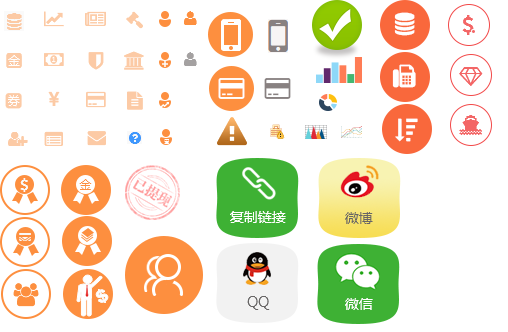
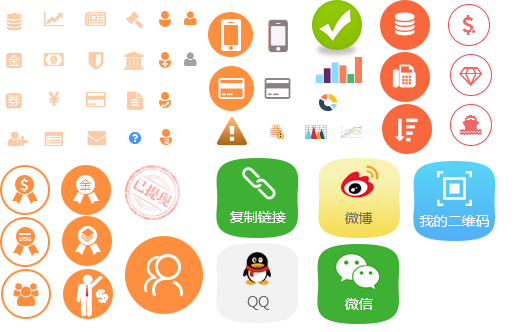
fix(invite-rebate.html):个人中心-我的邀请页面

diff --git a/app/views/user-center/invite-rebate.html b/app/views/user-center/invite-rebate.html
@@ -1,5 +1,5 @@
 <!--邀请返利-->
-<div class="right-area col-md-8 col-lg-9">
+<div class="right-area col-md-8 col-lg-9 invite-rebate">
   <div class="currency-style">
     <div class="title">
       <span class="tip">邀请中心</span>
@@ -32,21 +32,48 @@
             <p>以下方式分享邀请链接给好友>&nbsp;好友点击链接注册并投资>&nbsp;奖励自动进入您的账户</p>
             <div class="row text-center">
               <div class="col-xs-3">
-                <span class="invite-wechat display-inbl" data-toggle="modal" data-target="#myModal" ng-click="modalFlag=true"></span>
+                <span class="invite-wechat display-inbl" data-toggle="modal" data-target="#myModal" ng-click="weimodalFlag = true;qrmodalFlag = false;modalFlag =false"></span>
               </div>
-              <div class="col-xs-3" ng-click="shareWeibo()">
+              <!-- <div class="col-xs-3" ng-click="shareWeibo()">
                 <span class="invite-sina display-inbl"></span>
-              </div>
+              </div> -->
               <div class="col-xs-3" ng-click="shareQQ()">
                 <span class="invite-qq display-inbl"></span>
               </div>
               <div class="col-xs-3">
-                <span class="invite-copy display-inbl" data-toggle="modal" data-target="#myModal" ng-click="modalFlag=false"></span>
+                <span class="invite-qrcode display-inbl" data-toggle="modal" data-target="#myModal" ng-click="qrmodalFlag = true;weimodalFlag = false;modalFlag =false"></span>
+              </div>
+              <div class="col-xs-3">
+                <span class="invite-copy display-inbl" data-toggle="modal" data-target="#myModal" ng-click="modalFlag = true;qrmodalFlag = false;weimodalFlag =false"></span>
               </div>
             </div>
           </div>
         </div>
       </div>
+      <!-- 邀请好友赚奖金 -->
+      <div class="col-md-12">
+        <div class="invite-line ft-14 margin-b-10">
+          <p class="ftw-b ft-red6 margin-b-0 margin-l-30">邀好友赚奖金：2016年10月8日—2016年10月31日</p>
+        </div>
+      </div>
+      <div class="col-md-12 invite-main ft-grey666 margin-b-10">
+        <p class="intro ft-14 margin-b-0">活动期间内邀请好友注册投资，该好友在活动期间累计投资两次（期限≥30天），累计投资金额达2500元（含）以上，邀请人即可获得邀请奖金60元！多邀多得，上不封顶！</p>
+        <div class="text-center margin-t-20 margin-b-20">
+          <img src="/images/user-center/group.png" alt="">
+          <div class="row ft-12 line-h24 row-img margin-auto text-left">
+            <div class="col-md-5">分享专属二维码/复制链接给好友</div>
+            <div class="col-md-4 margin-l--26">好友通过链接注册并购买</div>
+            <div class="col-md-3 margin-l-20">您将获得60元奖金</div>
+          </div>
+        </div>
+        <div class="text-left ft-14 rules line-h24">
+          <div class="header ft-white text-center">活动规则：</div>
+          <p class="margin-b-0">1、邀请关系认定：好友注册时填写邀请人手机号或通过邀请人的专属链接（或二维码）注册；</p>
+          <p class="margin-b-0">2、邀请奖金自动发放至邀请人宏财账户，邀请人可在账户“资金流水”中查看，该奖金可立即提现；</p>
+          <p class="margin-b-0">3、活动中如发现通过非正常手段恶意获取奖金，宏财网保留不派发奖金的权利；</p>
+        </div>
+      </div>
+      <!-- 我的邀请table -->
       <div class="col-md-12 ft-14 margin-t-20">
         <div class="invite-content">
           <div class="col-md-1 padding-b-5 credit-toggle">我的邀请</div>
@@ -100,23 +127,34 @@
                 &times;
           </button>
           <h4 class="modal-title" id="myModalLabel">
-            <span ng-show="modalFlag">扫一扫微信邀请</span><span ng-show="!modalFlag">复制链接</span>
+            <span ng-show="weimodalFlag">扫一扫微信邀请</span>
+            <span ng-show="modalFlag">复制链接</span>
+            <span ng-show="qrmodalFlag">我的专属归属二维码</span>
           </h4>
        </div>
-       <div class="modal-body" ng-show="!modalFlag">
+       <div class="modal-body" ng-show="modalFlag">
           <div class="modal-connect">
             <p class="ft-14" >http://www.hongcai.com/register?inviteCode={{voucher.inviteCode}}</p>
             <p class="ft-14">复制以上链接邀请好友，更多奖励等你哟!!</p>
           </div>
           <button class="button orange-button copy-btn" ng-click="copyInviteUrl()">复制链接</button>
        </div>
-       <div class="modal-body margin-t-30 margin-b-50" ng-show="modalFlag">
-        <div class="col-md-7 padding-l-90"><img ng-src="{{wechatQrCode}}" alt=""></div>
-        <div class="col-md-5 text-left ft-14 ft-grey">
-          <p class="margin-t-20">扫一扫微信分享</p>
-          <p>客服热线</p>
-          <p>400-990-7626</p>
-        </div>
+       <div class="modal-body margin-t-30 margin-b-50" ng-show="weimodalFlag">
+          <div class="col-md-7 padding-l-90"><img ng-src="{{wechatQrCode}}" alt=""></div>
+          <div class="col-md-5 text-left ft-14 ft-grey">
+            <p class="margin-t-20">扫一扫微信分享</p>
+            <p>客服热线</p>
+            <p>400-990-7626</p>
+          </div>
+       </div>
+       <div class="modal-body margin-t-30 margin-b-50" ng-show="qrmodalFlag">
+          <div id="qrcode" class="col-md-6 padding-l-90">
+          </div>
+          <div class="col-md-5 text-left ft-14 ft-grey">
+            <p class="margin-t-20">分享您的专属二维码给好友</p>
+            <p>好友通过该二维码注册后，</p>
+            <p>即成为您的邀请用户</p>
+          </div>
        </div>
     </div>
   </div>

diff --git a/app/scripts/controller/user-center/invite-rebate-ctrl.js b/app/scripts/controller/user-center/invite-rebate-ctrl.js
@@ -22,8 +22,13 @@ angular.module('hongcaiApp')
       } else {
         //console.log('ask invite-rebate, why getInviteList did not load data...');
       }
-    });
 
+      // 生成自己的二维码
+      angular.element('#qrcode').qrcode({
+        render:'table',
+        text:'http://m.test321.hongcai.com/register?inviteCode=' + $scope.inviteCode
+      });
+    });
 
     VouchersService.inviteStat.get(function(response){
       if (response.ret === 1){
@@ -42,22 +47,20 @@ angular.module('hongcaiApp')
       });
     };
 
-    
+
     /**
      * 复制邀请链接
      */
     $scope.copyInviteUrl = function(){
       ngClipboard.toClipboard('http://www.hongcai.com/register?inviteCode=' + $scope.inviteCode);
       toaster.pop('success', '复制成功！');
-
     }
-
     /**
      * 分享到微博
      */
     $scope.shareWeibo = function(){
 
-      var shareLink = config.domain + "/register?inviteCode" + $scope.inviteCode;
+      var shareLink = config.domain + "/register?inviteCode=" + $scope.inviteCode;
       ShareUtils.toWeibo('点击注册，得68888体验金 ' + shareLink);
 
 
@@ -68,17 +71,15 @@ angular.module('hongcaiApp')
      * 分享到qqzone
      */
     $scope.shareQQ = function(){
-      var shareLink = config.domain + "/register?inviteCode" + $scope.inviteCode;
+      var shareLink = config.domain + "/register?inviteCode=" + $scope.inviteCode;
       var desc = "点击注册，得68888体验金" + shareLink;
 
       ShareUtils.toQQzone('点击注册，得68888体验金', shareLink, desc);
 
-
     }
 
-    
+
     $scope.wechatQrCode = config.en ==='online' ?  '/images/user-center/wechat.png' : '/images/user-center/wechat-test.png'
-    
 
 
 

diff --git a/app/styles/user_center.less b/app/styles/user_center.less
@@ -1228,7 +1228,7 @@
   .credit-toggle{
     width: 86px;
   }
-  .invite-wechat, .invite-sina, .invite-qq, .invite-copy {
+  .invite-wechat, .invite-sina, .invite-qq, .invite-copy, .invite-qrcode {
     width: 83px;
     height: 80px;
   }
@@ -1243,6 +1243,35 @@
   }
   .invite-copy {
     background: url('/images/user-center/backgrounds_sidebar.png') no-repeat -216px -158px ;
+  }
+  .invite-qrcode {
+    background: url('/images/user-center/backgrounds_sidebar.png') no-repeat -413px -161px ;
+  }
+}
+// 邀请中心
+.invite-rebate {
+  .invite-main {
+    padding: 0 71px;
+    .intro {
+      line-height: 24px;
+    }
+    .row-img {
+      width: 616px;
+      margin-top: 7px;
+    }
+    .line-h24 {
+      line-height: 24px;
+    }
+  }
+  .rules {
+    .header {
+      width: 73px;
+      height: 18px;
+      line-height: 18px;
+      display: inline-block;
+      background-color: #6accff;
+      padding-left: 3px;
+    }
   }
 }
 .modal-top{

diff --git a/app/index.html b/app/index.html
@@ -187,6 +187,7 @@
     <script src="bower_components/angular-svg-round-progressbar/build/roundProgress.min.js"></script>
     <!-- endbower -->
     <script src="bower_components/fancybox/source/jquery.fancybox.js"></script>
+    <script src="bower_components/jquery-qrcode/dist/jquery-qrcode.js"></script>
     <!-- endbuild -->
 
 

diff --git a/app/styles/common.less b/app/styles/common.less
@@ -1974,7 +1974,7 @@ button {
   margin-bottom: 30px;
 }
 .margin-b-10{
-  margin-bottom: 10px;
+  margin-bottom: 10px !important;
 }
 .margin-b-15 {
   margin-bottom: 15px;
